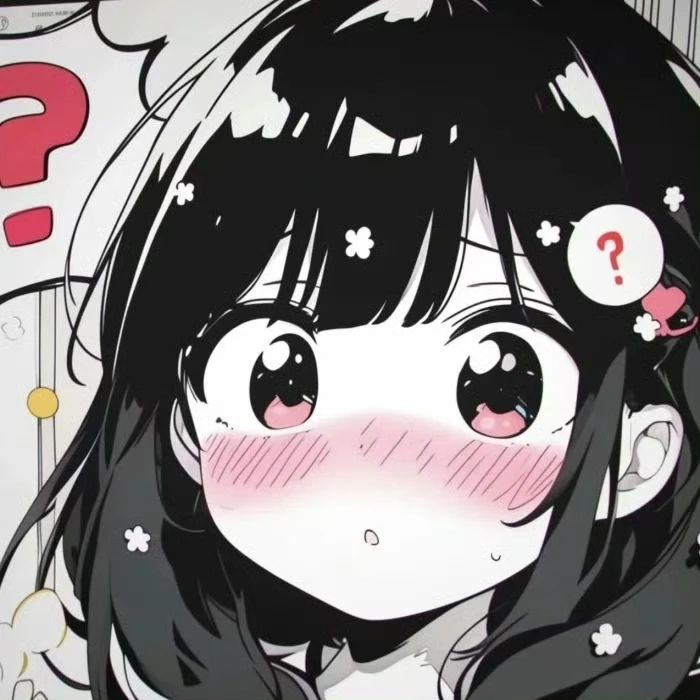
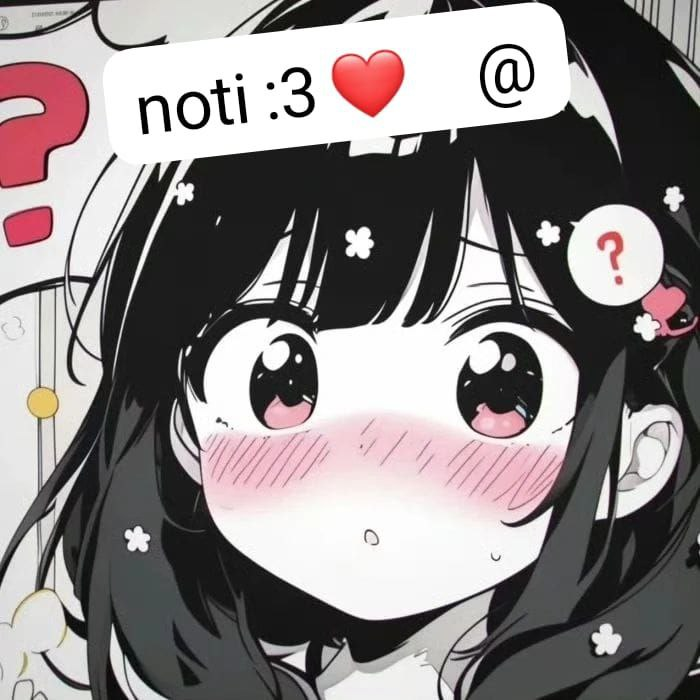
update

Changed region(s): [[0.15, 0.0, 0.81, 0.24]]

diff --git a/plugins/testcomandos.js b/plugins/testcomandos.js
@@ -1,0 +1,73 @@
+import {generateWAMessageFromContent} from '@whiskeysockets/baileys'
+import { sticker } from '../lib/sticker.js'
+import * as fs from 'fs';
+const handler = async (m, {conn, text, participants, isOwner, isAdmin, args}) => {
+
+
+    if (!m.quoted && !text){
+        let users = participants.map(u => conn.decodeJid(u.id))
+        let quoted = m.quoted ? m.quoted : m
+        let mime = (quoted.msg || quoted).mimetype || ''
+        let isMedia = /image|video|sticker|audio/.test(mime)
+        let more = String.fromCharCode(8206)
+        let masss = more.repeat(850)
+        let htextos = `${text ? text : " *🐈⬛ Holis :3* "}`
+
+        let stiker = await sticker(imagen13, false, global.packname, global.author)
+        await conn.sendFile(m.chat, stiker, 'sticker.webp', null, m, false, {
+        })
+        //await conn.sendMessage(m.chat, { text : text ? text : `noti :3 ❤    @ *${await conn.getName(m.chat)}*` , mentions: users}, { quoted: m, ephemeralExpiration: 24*60*100, disappearingMessagesInChat: 24*60*100})
+        return
+    }
+
+
+
+
+
+    const users = participants.map((u) => conn.decodeJid(u.id))
+    const quoted = m.quoted ? m.quoted : m
+    const mime = (quoted.msg || quoted).mimetype || ''
+//const isMedia = /image|video|sticker|audio/.test(mime)
+    var isMedia = /image|video|sticker|audio/.test(mime)
+    if(!(isMedia)){
+
+        if (args.length >= 1) {
+            text = args.slice(0).join(" ")
+        } else if (m.quoted && m.quoted.text) {
+            text = m.quoted.text
+        } else return
+
+        const users = participants.map((u) => conn.decodeJid(u.id))
+        const quoted = m.quoted ? m.quoted : m
+        const mime = (quoted.msg || quoted).mimetype || ''
+        isMedia = /image|video|sticker|audio/.test(mime)
+        const more = String.fromCharCode(8206)
+        const masss = more.repeat(850)
+        const htextos = `${text ? text : '📣📣📣'}`
+
+        await conn.sendMessage(m.chat, { text: text + '\n                                                     ᴬʳˡᵉᵗᵗᴮᵒᵗ', mentions: users }, { quoted: m })
+
+
+    }else{
+
+
+
+
+        try {
+            let users = participants.map(u => conn.decodeJid(u.id))
+            let q = m.quoted ? m.quoted : m || m.text || m.sender
+            let c = m.quoted ? await m.getQuotedObj() : m.msg || m.text || m.sender
+            let msg = conn.cMod(m.chat, generateWAMessageFromContent(m.chat, { [m.quoted ? q.mtype : 'extendedTextMessage']: m.quoted ? c.message[q.mtype] : { text: '' || c }}, { quoted: m, userJid: conn.user.id }), text || q.text, conn.user.jid, { mentions: users })
+            await conn.relayMessage(m.chat, msg.message, { messageId: msg.key.id })
+        } catch {
+        }
+
+    }
+
+
+}
+
+handler.command = /^(testtt)$/i
+handler.group = true
+handler.admin = true
+export default handler

diff --git a/plugins/grupo-hidetag.js b/plugins/grupo-hidetag.js
@@ -12,11 +12,14 @@ let isMedia = /image|video|sticker|audio/.test(mime)
 let more = String.fromCharCode(8206)
 let masss = more.repeat(850)
 let htextos = `${text ? text : " *🐈⬛ Holis :3* "}`
-
-    let stiker = await sticker(imagen13, false, global.packname, global.author)
-    await conn.sendFile(m.chat, stiker, 'sticker.webp', null, m, false, {
-    })
-await conn.sendMessage(m.chat, { text : text ? text : `noti :3 ❤    @ *${await conn.getName(m.chat)}*` , mentions: users}, { quoted: m, ephemeralExpiration: 24*60*100, disappearingMessagesInChat: 24*60*100})
+    const numer = Math.floor(Math.random() * 2);
+    if(numer === 1){
+        let stiker = await sticker(imagen13, false, global.packname, global.author)
+        await conn.sendFile(m.chat, stiker, 'sticker.webp', null, m, false, { mentions: users
+        },{ quoted: m, ephemeralExpiration: 24*60*100, disappearingMessagesInChat: 24*60*100})
+    }else if(numer === 0){
+        await conn.sendMessage(m.chat, { text : text ? text : `noti :3 ❤    @ *${await conn.getName(m.chat)}*` , mentions: users}, { quoted: m, ephemeralExpiration: 24*60*100, disappearingMessagesInChat: 24*60*100})
+    }
 return
 } 
 
